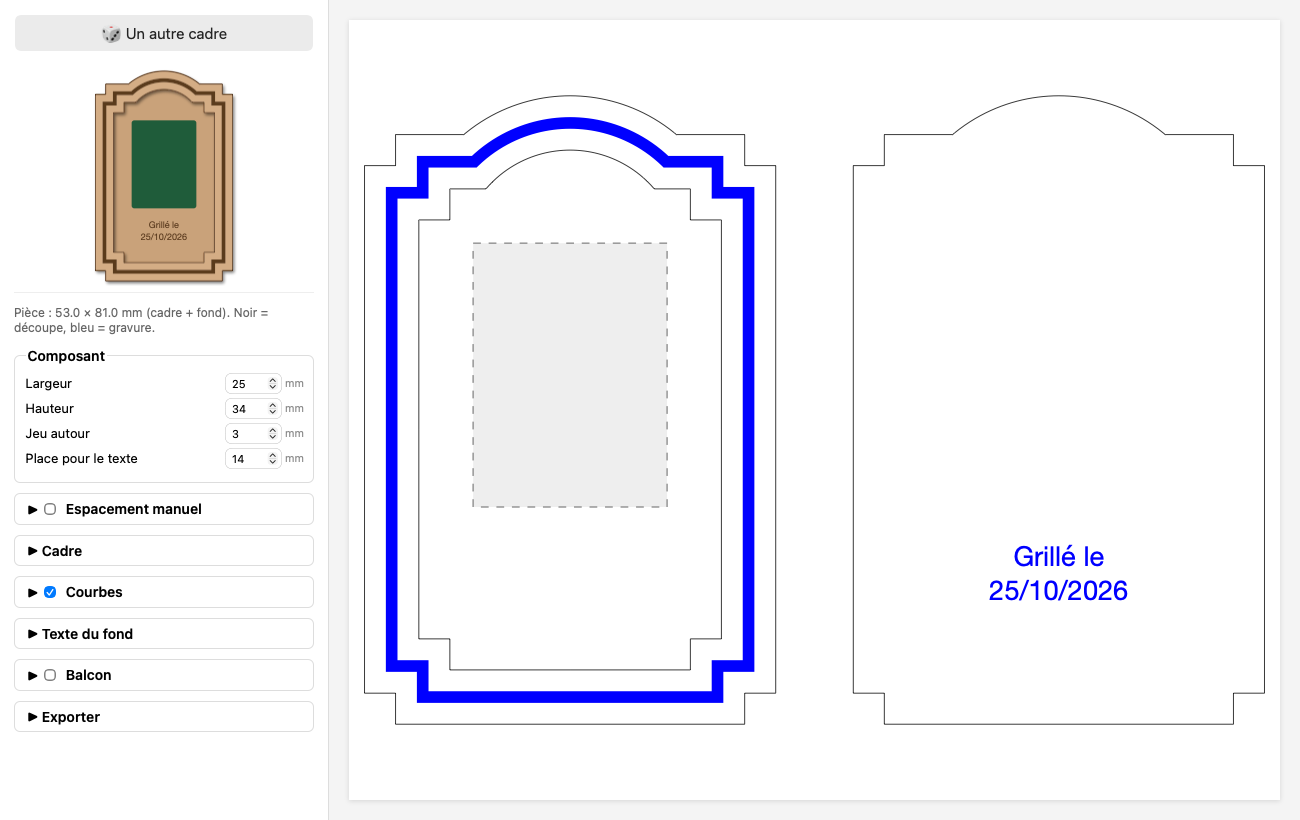
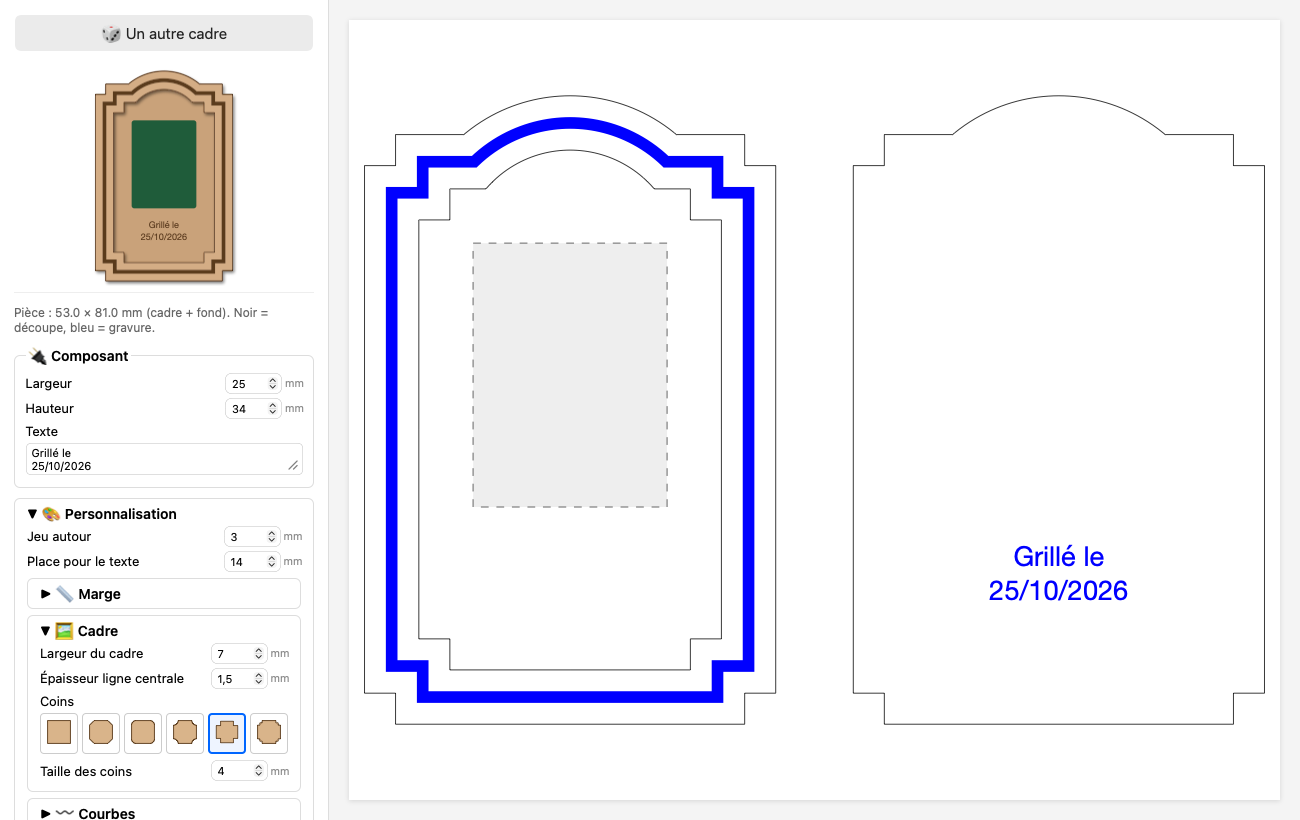
Nouvelle interface : Personnalisation, vignettes de coins et de courbes, polices, bornes des réglages, balcon gardé dans la fenêtre

Changed region(s): [[0.0, 0.5183, 0.2462, 1.0], [0.1538, 0.6402, 0.2462, 0.7012], [0.0, 0.4268, 0.0923, 0.4573]]

diff --git a/index.html b/index.html
@@ -17,12 +17,19 @@
   main { flex: 1; display: flex; align-items: center; justify-content: center; padding: 20px; }
   main svg { width: 100%; height: 100%; background: #fff; box-shadow: 0 1px 6px #0002; }
   #mdf { position: sticky; top: -14px; z-index: 1; background: #fff; padding: 6px 0; height: 220px; border-bottom: 1px solid #eee; }  /* reste visible quand on fait défiler les réglages */
+  .vignettes { display: grid; grid-template-columns: repeat(6, 1fr); gap: 4px; margin: 2px 0 6px; }
+  .vignettes button { width: auto; padding: 2px; margin: 0; background: #fff; border: 1px solid #ccc; border-radius: 4px; }
+  #polices { display: grid; grid-template-columns: 1fr 1fr; gap: 4px; margin: 2px 0 6px; }
+  #polices button { font-size: 14px; padding: 5px 2px; margin: 0; background: #fff; border: 1px solid #ccc; border-radius: 4px; white-space: nowrap; overflow: hidden; }
+  .vignettes button.choisi, #polices button.choisi { border: 2px solid #06f; background: #eef4ff; }
+  dialog form { width: auto; border: none; padding: 0; background: none; }  /* pas le style du panneau de gauche */
+  dialog { border: none; border-radius: 10px; box-shadow: 0 4px 24px #0004; text-align: center; }
   #mdf svg { width: 100%; height: 100%; }
   #info { font-size: 12px; color: #666; }
   details { border: 1px solid #ddd; border-radius: 6px; margin: 0 0 10px; padding: 6px 12px; }
+  details details { margin: 6px 0 4px; }
   summary { font-weight: 600; cursor: pointer; }
   summary label { display: inline-flex; margin: 0; font-size: 14px; }
-  #f:has(#marges:checked) .auto { display: none; }
   svg text { cursor: move; user-select: none; pointer-events: bounding-box; }
   @media print {  /* seulement le plan, en vraie grandeur */
     form { display: none; } body { display: block; height: auto; background: #fff; }
@@ -36,60 +43,74 @@
   <button type="button" id="hasard">🎲 Un autre cadre</button>
   <div id="mdf"></div>
   <p id="info"></p>
-  <fieldset><legend>Composant</legend>
-    <label>Largeur <input type="number" id="ow" value="25" step="0.5"></label>
-    <label>Hauteur <input type="number" id="oh" value="34" step="0.5"></label>
-    <label class="auto">Jeu autour <input type="number" id="jeu" value="3" step="0.5"></label>
-    <label class="auto">Place pour le texte <input type="number" id="tz" value="14" step="0.5"></label>
-  </fieldset>
-  <details name="menu"><summary><label><input type="checkbox" id="marges"> Espacement manuel</label></summary>
-    <label>En haut <input type="number" id="mh" step="0.5"></label>
-    <label>En bas <input type="number" id="mb" step="0.5"></label>
-    <label>Chaque côté <input type="number" id="mc" step="0.5"></label>
-  </details>
-  <details name="menu"><summary>Cadre</summary>
-    <label>Largeur du tour <input type="number" id="tour" value="7" step="0.5"></label>
-    <label>Épaisseur ligne <input type="number" id="trait" value="1.5" step="0.1"></label>
-    <label>Coins <select id="coin">
-      <option value="droit">droits</option><option value="chanfrein">chanfrein</option>
-      <option value="arrondi">arrondis</option><option value="creux">creux</option>
-      <option value="cran" selected>cran</option><option value="double">double cran</option>
-    </select></label>
-    <label>Taille des coins <input type="number" id="k" value="4" step="0.5"></label>
-  </details>
-  <details name="menu"><summary><label><input type="checkbox" id="courbes" checked> Courbes</label></summary>
-    <label>Haut <select id="hautT"><option>aucun</option><option selected>bosse</option><option>creux</option></select></label>
-    <label>↳ flèche / largeur <span><input type="number" id="hautS" value="5" step="0.5"> <input type="number" id="hautL" value="70" step="5"></span></label>
-    <label>Bas <select id="basT"><option selected>aucun</option><option>bosse</option><option>creux</option></select></label>
-    <label>↳ flèche / largeur <span><input type="number" id="basS" value="5" step="0.5"> <input type="number" id="basL" value="70" step="5"></span></label>
-    <label>Côtés <select id="cotT"><option selected>aucun</option><option>bosse</option><option>creux</option></select></label>
-    <label>↳ flèche / largeur <span><input type="number" id="cotS" value="4" step="0.5"> <input type="number" id="cotL" value="60" step="5"></span></label>
-  </details>
-  <details name="menu"><summary>Texte du fond</summary>
+  <fieldset><legend>🔌 Composant</legend>
+    <label>Largeur <input type="number" id="ow" value="25" min="1" step="0.5"></label>
+    <label>Hauteur <input type="number" id="oh" value="34" min="1" step="0.5"></label>
+    <label for="txt">Texte</label>
     <textarea id="txt" rows="2"></textarea>
-    <label>Place <select id="tpos"><option value="1">sous la pièce</option><option value="-1">au-dessus</option></select></label>
-    <label>Taille <input type="number" id="fs" value="3.5" step="0.5"></label>
-    <label>Décaler ↔ / ↑ <span><input type="number" id="tdx" value="0" step="0.5"> <input type="number" id="tdy" value="0" step="0.5"></span></label>
-    <label>Police <input id="font" value="Helvetica Neue" style="width:120px"></label>
+  </fieldset>
+  <details name="top"><summary>🎨 Personnalisation</summary>
+    <label>Jeu autour <input type="number" id="jeu" value="3" min="0" step="0.5"></label>
+    <label>Place pour le texte <input type="number" id="tz" value="14" min="0" step="0.5"></label>
+    <details name="menu"><summary>📏 Marge</summary>
+      <label>En haut <input type="number" id="mh" min="0" step="0.5"></label>
+      <label>En bas <input type="number" id="mb" min="0" step="0.5"></label>
+      <label>Chaque côté <input type="number" id="mc" min="0" step="0.5"></label>
+    </details>
+    <details name="menu"><summary>🖼 Cadre</summary>
+      <label>Largeur du cadre <input type="number" id="tour" value="7" min="1" step="0.5"></label>
+      <label>Épaisseur ligne centrale <input type="number" id="trait" value="1.5" min="0.1" step="0.1"></label>
+      <label>Coins</label>
+      <select id="coin" hidden>
+        <option value="droit">droits</option><option value="chanfrein">chanfrein</option>
+        <option value="arrondi">arrondis</option><option value="creux">creux</option>
+        <option value="cran" selected>cran</option><option value="double">double cran</option>
+      </select>
+      <label>Taille des coins <input type="number" id="k" value="4" min="0" step="0.5"></label>
+    </details>
+    <details name="menu"><summary>〰 Courbes</summary>
+      <label>Haut</label>
+      <select id="hautT" hidden><option>aucun</option><option selected>bosse</option><option>creux</option></select>
+      <label>↳ flèche / largeur <span><input type="number" id="hautS" value="5" min="0" step="0.5"> <input type="number" id="hautL" value="70" min="0" max="100" step="5"></span></label>
+      <label>Bas</label>
+      <select id="basT" hidden><option selected>aucun</option><option>bosse</option><option>creux</option></select>
+      <label>↳ flèche / largeur <span><input type="number" id="basS" value="5" min="0" step="0.5"> <input type="number" id="basL" value="70" min="0" max="100" step="5"></span></label>
+      <label>Côtés</label>
+      <select id="cotT" hidden><option selected>aucun</option><option>bosse</option><option>creux</option></select>
+      <label>↳ flèche / largeur <span><input type="number" id="cotS" value="4" min="0" step="0.5"> <input type="number" id="cotL" value="60" min="0" max="100" step="5"></span></label>
+    </details>
+    <details name="menu"><summary>🔤 Texte</summary>
+      <label>Place <select id="tpos"><option value="1">sous la pièce</option><option value="-1">au-dessus</option></select></label>
+      <label>Taille <input type="number" id="fs" value="3.5" min="0.5" step="0.5"></label>
+      <label>Décaler ↔ / ↑ <span><input type="number" id="tdx" value="0" step="0.5"> <input type="number" id="tdy" value="0" step="0.5"></span></label>
+      <label>Police <input id="font" value="Helvetica Neue" style="width:120px"></label>
+      <div id="polices"></div>
+    </details>
   </details>
-  <details name="menu"><summary><label><input type="checkbox" id="plat"> Balcon</label></summary>
-    <label>Profondeur <input type="number" id="pp" value="15" step="1"></label>
-    <label>Arrondi devant <input type="number" id="pr" value="5" step="0.5"></label>
-    <label>Monter ↑ <input type="number" id="ph" value="0" step="0.5"></label>
-    <label>Épaisseur MDF <input type="number" id="ep" value="3" step="0.1"></label>
-    <label>Kerf <input type="number" id="kerf" value="0.2" step="0.05"></label>
-    <label>Jeu des pattes <input type="number" id="jp" value="0.15" step="0.05"></label>
+  <details name="top"><summary><label><input type="checkbox" id="plat"> 🪴 Balcon</label></summary>
+    <label>Profondeur <input type="number" id="pp" value="15" min="1" step="1"></label>
+    <label>Arrondi devant <input type="number" id="pr" value="5" min="0" step="0.5"></label>
+    <label>Monter ↑ <input type="number" id="ph" value="0" min="0" step="0.5"></label>
+    <label>Épaisseur MDF <input type="number" id="ep" value="3" min="0.5" max="10" step="0.1"></label>
+    <label>Kerf <input type="number" id="kerf" value="0.2" min="0" max="0.5" step="0.05"></label>
+    <label>Jeu des pattes <input type="number" id="jp" value="0.15" min="0" max="1" step="0.05"></label>
   </details>
-  <details name="menu"><summary>Exporter</summary>
+  <fieldset><legend>📤 Exporter</legend>
     <button type="button" id="export">💾 SVG pour le laser</button>
     <button type="button" id="imprimer">🖨 Imprimer à l'échelle 1:1</button>
-  </details>
+  </fieldset>
 </form>
 <main id="vue"></main>
+<dialog id="mollo"><form method="dialog">
+  <p style="font-size:18px; margin:0 0 6px">😬 Oh là, mollo mollo !</p>
+  <p style="margin:0 0 12px">Plus de 50 mm de balcon, ça risque de pencher.</p>
+  <button>Continuer quand même</button>
+</form></dialog>
 
 <script>
 const $ = id => document.getElementById(id);
-const v = id => +$(id).value;
+// valeur lue dans ses bornes min/max : une case vide, négative ou trop grande ne casse pas le dessin
+const v = id => { const e = $(id); return Math.min(Math.max(+e.value || 0, e.min ? +e.min : -Infinity), e.max ? +e.max : Infinity); };
 const d0 = new Date();
 $('txt').value = `Grillé le\n${String(d0.getDate()).padStart(2, '0')}/${String(d0.getMonth() + 1).padStart(2, '0')}/${d0.getFullYear()}`;
 
@@ -119,28 +140,30 @@ function quart(w, h, k, coin, hor, ver) {
   return p;
 }
 
-const courbe = n => ({ s: $('courbes').checked ? { aucun: 0, bosse: 1, creux: -1 }[$(n + 'T').value] * v(n + 'S') : 0, L: v(n + 'L') / 100 });
+const courbe = n => ({ s: { aucun: 0, bosse: 1, creux: -1 }[$(n + 'T').value] * v(n + 'S'), L: v(n + 'L') / 100 });
 
 // Place autour du composant (h = haut, b = bas, c = chaque côté) ; par défaut : le jeu partout + la place du texte
 function margesAuto() {
   const j = v('jeu'), t = v('tz'), dessus = v('tpos') < 0;
   return { h: j + (dessus ? t : 0), b: j + (dessus ? 0 : t), c: j };
 }
-const marges = () => $('marges').checked ? { h: v('mh'), b: v('mb'), c: v('mc') } : margesAuto();
+const marges = () => ({ h: v('mh'), b: v('mb'), c: v('mc') });
+function remplitMarges() { const m = margesAuto(); $('mh').value = m.h; $('mb').value = m.b; $('mc').value = m.c; }
 
 function fenetre() {
-  const coin = $('coin').value, k = coin === 'droit' ? 0 : v('k');
+  const M = marges(), coin = $('coin').value;
+  const k = coin === 'droit' ? 0 : Math.min(v('k'), v('ow') / 2 + M.c, (v('oh') + M.h + M.b) / 2);  // coin plus grand que la fenêtre = contour croisé
   const mange = { droit: 0, chanfrein: 0.5, arrondi: 0.3 }[coin] ?? 1; // de combien le coin entame le rectangle
   const haut = courbe('haut'), bas = courbe('bas'), cot = courbe('cot');
   const creux = c => Math.max(0, -c.s);
-  const M = marges(), w = v('ow') / 2 + M.c + mange * k + creux(cot);
+  const w = v('ow') / 2 + M.c + mange * k + creux(cot);
   const h = (v('oh') + M.h + M.b) / 2 + mange * k + Math.max(creux(haut), creux(bas));
   const tr = quart(w, h, k, coin, haut, cot);
   const br = quart(w, h, k, coin, bas, cot).map(([x, y]) => [x, -y]).reverse();
-  const bl = br.map(([x, y]) => [-x, y]).reverse();
-  const tl = tr.map(([x, y]) => [-x, y]).reverse();
-  return [...tr, ...br, ...bl, ...tl];
+  return entier(tr, br);
 }
+// quarts haut-droit et bas-droit → contour complet (miroir gauche)
+const entier = (tr, br) => [...tr, ...br, ...br.map(([x, y]) => [-x, y]).reverse(), ...tr.map(([x, y]) => [-x, y]).reverse()];
 
 // ponytail: les courbes sont des polygones (pas d'arcs SVG) ; assez fin pour le laser
 function decale(poly, d) {
@@ -150,6 +173,7 @@ function decale(poly, d) {
   return out.map(p => p.map(q => [q.X / S, q.Y / S]));
 }
 
+const echappe = t => t.replace(/&/g, '&amp;').replace(/</g, '&lt;').replace(/"/g, '&quot;');
 const chemin = (polys, dx, dy) => polys.map(p => 'M' + p.map(([x, y]) => `${(x + dx).toFixed(3)},${(dy - y).toFixed(3)}`).join('L') + 'Z').join('');
 
 // Balcon vu de dessus : y=0 = bord contre le fond, y>0 vers l'avant ; les pattes traversent le fond
@@ -164,19 +188,22 @@ function plateau() {
   return [...p, [L / 2, 0], ...arc(L / 2 - r, P - r, r, 0, Math.PI / 2), ...arc(-L / 2 + r, P - r, r, Math.PI / 2, Math.PI)];
 }
 function fentes(sy) {  // sy = dessus du balcon, sur le fond
-  const t = tenon() - v('kerf') + v('jp'), h = v('ep') - v('kerf') + v('jp'), yc = sy - v('ep') / 2;
+  const t = Math.max(0.5, tenon() - v('kerf') + v('jp')), h = v('ep') - v('kerf') + v('jp'), yc = sy - v('ep') / 2;
   return pattes().map(c => [[c - t / 2, yc - h / 2], [c + t / 2, yc - h / 2], [c + t / 2, yc + h / 2], [c - t / 2, yc + h / 2]]);
 }
 
 function dessine() {
-  const f = fenetre(), tour = v('tour'), e = v('trait'), sgn = v('tpos');  // sgn = -1 : texte au-dessus, pièce en dessous
+  for (const b of document.querySelectorAll('.vignettes button')) b.classList.toggle('choisi', b.dataset.v === $(b.parentNode.dataset.sel).value);
+  for (const b of $('polices').children) b.classList.toggle('choisi', b.textContent === $('font').value);
+  const f = fenetre(), tour = v('tour'), e = Math.min(v('trait'), tour - 0.2), sgn = v('tpos');  // sgn = -1 : texte au-dessus, pièce en dessous
   const M = marges(), oh = v('oh'), oy = (M.b - M.h) / 2;  // oy = centre du composant (y vers le haut)
   const yTexte = sgn > 0 ? (oy - oh / 2 - (oh + M.h + M.b) / 2) / 2 : (oy + oh / 2 + (oh + M.h + M.b) / 2) / 2;  // milieu de la place libre
   const ext = decale(f, tour);
   const xs = ext.flat().map(p => p[0]), ys = ext.flat().map(p => p[1]);
   const W = Math.max(...xs) - Math.min(...xs), H = Math.max(...ys) - Math.min(...ys), m = 2, ecart = 10;
   const ax = m - Math.min(...xs), ay = m + Math.max(...ys), bx = ax + W + ecart;
-  const plat = $('plat').checked, sy = oy - oh / 2 + v('ph'), pl = plat ? plateau() : [], fe = plat ? fentes(sy) : [];
+  // balcon dans la fenêtre : pas plus haut que son bord haut, et assez de place dessous pour l'épaisseur des pattes
+  const plat = $('plat').checked, sy = Math.max(oy - oh / 2 + Math.min(v('ph'), oh + M.h - 0.5), oy - oh / 2 - M.b + v('ep')), pl = plat ? plateau() : [], fe = plat ? fentes(sy) : [];
   const px = bx + Math.max(...xs) + ecart + pL() / 2, py = m + v('pp');
   const L = 2 * m + 2 * W + ecart + (plat ? ecart + pL() : 0), Ht = 2 * m + Math.max(H, plat ? v('pp') + v('ep') : 0);
   const coupe = 'fill="none" stroke="#000" stroke-width="0.1"';
@@ -185,7 +212,7 @@ function dessine() {
   const anneau = [...decale(f, tour / 2 + e / 2), ...decale(f, tour / 2 - e / 2)];
   // une ligne = un <text> à hauteur absolue : LightBurn/Illustrator ignorent les décalages dy des tspan (lignes superposées)
   const texte = (x, y, coul) => `<g class="texte">${lignes.map((l, i) =>
-      `<text x="${x}" y="${(y + i * lh).toFixed(3)}" font-family="${$('font').value}" font-size="${fs}" fill="${coul}" text-anchor="middle">${l.replace(/&/g, '&amp;').replace(/</g, '&lt;')}</text>`).join('')}</g>`;
+      `<text x="${x}" y="${(y + i * lh).toFixed(3)}" font-family="${echappe($('font').value)}" font-size="${fs}" fill="${coul}" text-anchor="middle">${echappe(l)}</text>`).join('')}</g>`;
   $('mdf').innerHTML = `<svg viewBox="${Math.min(...xs) - 2} ${-Math.max(...ys) - 2} ${W + 4} ${H + 4}">
   <defs><filter id="ombre"><feDropShadow dx="0.6" dy="0.8" stdDeviation="0.6" flood-opacity="0.5"/></filter></defs>
   <path d="${chemin(ext, 0, 0)}" fill="#c9a27a" stroke="#4a2c14" stroke-width="0.3"/>
@@ -213,7 +240,6 @@ function dessine() {
 
 function hasard() {
   const pick = a => a[Math.floor(Math.random() * a.length)], r = (a, b, p = 0.5) => Math.round((a + Math.random() * (b - a)) / p) * p;
-  $('courbes').checked = Math.random() < 0.85;
   $('coin').value = pick(['droit', 'chanfrein', 'arrondi', 'creux', 'cran', 'cran', 'double']);
   $('k').value = r(2.5, 7);
   for (const n of ['haut', 'bas', 'cot']) {
@@ -222,6 +248,7 @@ function hasard() {
     $(n + 'L').value = r(40, 90, 5);
   }
   if (Math.random() < 0.5) for (const s of ['T', 'S', 'L']) $('bas' + s).value = $('haut' + s).value; // symétrique haut/bas
+  if (Math.random() < 0.15) for (const n of ['haut', 'bas', 'cot']) $(n + 'T').value = 'aucun'; // de temps en temps, sans courbe
   dessine();
 }
 
@@ -233,7 +260,7 @@ function exporte() {
   svg.querySelectorAll('.apercu').forEach(n => n.remove());
   const a = document.createElement('a');
   a.href = URL.createObjectURL(new Blob(['<?xml version="1.0" encoding="UTF-8"?>\n' + svg.outerHTML], { type: 'image/svg+xml' }));
-  a.download = 'cadre_' + $('txt').value.replace(/[^\w-]+/g, '_').replace(/^_|_$/g, '') + '.svg';
+  a.download = ['cadre', $('txt').value.replace(/[^\p{L}\d-]+/gu, '_').replace(/^_|_$/g, '')].filter(Boolean).join('_') + '.svg';
   a.click();
 }
 
@@ -243,11 +270,39 @@ for (const i of document.querySelectorAll('input[type=number]')) {
   u.append(i, Object.assign(document.createElement('small'), { textContent: /L$/.test(i.id) ? '%' : 'mm' }));
 }
 $('f').addEventListener('input', dessine);
-for (const id of ['marges', 'courbes', 'plat']) $(id).addEventListener('change', () => { if ($(id).checked) $(id).closest('details').open = true; });
-$('marges').addEventListener('change', () => {  // en cochant, on part des valeurs du moment
-  if (!$('marges').checked) return;
-  const m = margesAuto(); $('mh').value = m.h; $('mb').value = m.b; $('mc').value = m.c; dessine();
+// en quittant une case hors bornes, elle affiche la valeur vraiment utilisée
+$('f').addEventListener('change', ({ target: e }) => { if (e.type === 'number' && e.value !== '' && +e.value !== v(e.id)) e.value = v(e.id); });
+// polices courantes sur Mac, chacune écrite dans sa police ; la case Police reste libre pour une autre
+for (const p of ['Helvetica Neue', 'Avenir Next', 'Futura', 'Georgia', 'Didot', 'American Typewriter', 'Courier New', 'Copperplate', 'Marker Felt', 'Snell Roundhand']) {
+  const b = Object.assign(document.createElement('button'), { type: 'button', textContent: p });
+  b.style.fontFamily = `"${p}"`;
+  b.onclick = () => { $('font').value = p; dessine(); };
+  $('polices').append(b);
+}
+// vignettes à la place des listes (select caché juste avant) : un petit cadre dessiné pour chaque choix
+function vignettes(id, forme) {
+  const d = Object.assign(document.createElement('div'), { className: 'vignettes' });
+  d.dataset.sel = id;
+  for (const o of $(id).options) {
+    const [tr, br] = forme(o.value), b = Object.assign(document.createElement('button'), { type: 'button', title: o.text });
+    b.dataset.v = o.value;
+    b.innerHTML = `<svg viewBox="0 0 28 28" width="100%"><path d="${chemin([entier(tr, br.map(([x, y]) => [x, -y]).reverse())], 14, 14)}" fill="#d9b48a" stroke="#5a3a1a" stroke-width="0.8"/></svg>`;
+    b.onclick = () => { $(id).value = o.value; dessine(); };
+    d.append(b);
+  }
+  $(id).after(d);
+}
+const lisse = { L: 0, s: 0 }, q = (coin, h, b, c) => [quart(10, 10, coin === 'droit' ? 0 : 4, coin, h, c), quart(10, 10, coin === 'droit' ? 0 : 4, coin, b, c)];
+vignettes('coin', c => q(c, lisse, lisse, lisse));
+for (const n of ['haut', 'bas', 'cot']) vignettes(n + 'T', t => {
+  const c = { L: 0.7, s: { aucun: 0, bosse: 3, creux: -3 }[t] }, f = m => m === n ? c : lisse;
+  return q('droit', f('haut'), f('bas'), f('cot'));
 });
+let ppAvant = v('pp');  // le message ne vient qu'au passage au-dessus de 50, pas à chaque chiffre
+$('pp').addEventListener('input', () => { if (v('pp') > 50 && ppAvant <= 50) $('mollo').showModal(); ppAvant = v('pp'); });
+$('plat').addEventListener('change', () => { if ($('plat').checked) $('plat').closest('details').open = true; });
+// le jeu, la place du texte ou sa position recalculent la marge ; ensuite on peut la retoucher à la main
+for (const id of ['jeu', 'tz', 'tpos']) $(id).addEventListener('input', remplitMarges);
 // glisser le texte à la souris (grand plan ou aperçu MDF) : met à jour les cases de décalage
 let glisse = null;
 for (const id of ['vue', 'mdf']) $(id).addEventListener('pointerdown', ev => {
@@ -263,6 +318,7 @@ addEventListener('pointermove', ev => {
   dessine();
 });
 addEventListener('pointerup', () => glisse = null);
+addEventListener('pointercancel', () => glisse = null);
 $('hasard').onclick = hasard;
 $('export').onclick = exporte;
 $('imprimer').onclick = () => {  // taille en mm écrite sur le svg le temps de l'impression (à l'écran il remplit la fenêtre)
@@ -271,6 +327,7 @@ $('imprimer').onclick = () => {  // taille en mm écrite sur le svg le temps de 
   print();
   svg.style.width = svg.style.height = '';
 };
+remplitMarges();
 dessine();
 </script>
 </body>

diff --git a/README.md b/README.md
@@ -18,8 +18,8 @@ Pas de graveuse laser ? Une imprimante et un cutter suffisent (voir [Version pap
 
 - **Deux pièces** : le cadre (contour, fenêtre, ligne épaisse gravée au milieu du tour) et le fond (même contour, texte gravé).
 - **🎲 Un autre cadre** : tire au hasard les coins (droits, chanfrein, arrondis, creux, cran, double cran) et les courbes (bosse ou creux en haut, en bas, sur les côtés).
-- **Texte** : « Grillé le » + la date du jour, modifiable. Sous le composant ou au-dessus, et déplaçable à la souris (il se recentre tout seul près du milieu).
-- **Espacement manuel** : la place libre en haut, en bas et sur les côtés, au millimètre.
+- **Texte** : « Grillé le » + la date du jour, modifiable. Sous le composant ou au-dessus, en plusieurs polices, et déplaçable à la souris (il se recentre tout seul près du milieu).
+- **🎨 Personnalisation** : la marge autour du composant, la largeur du cadre, les coins et les courbes (choisis sur des vignettes), la taille et la police du texte (aperçu de chaque police).
 - **Balcon** : une petite étagère de la largeur du composant, pour les objets qui tiennent debout. Ses pattes s'emboîtent dans le fond (une seule patte jusqu'à 50 mm, deux au-delà).
 - **Aperçu MDF** : les pièces superposées, en couleur bois.
 - **Export SVG** en millimètres : noir = découpe, bleu = gravure.
